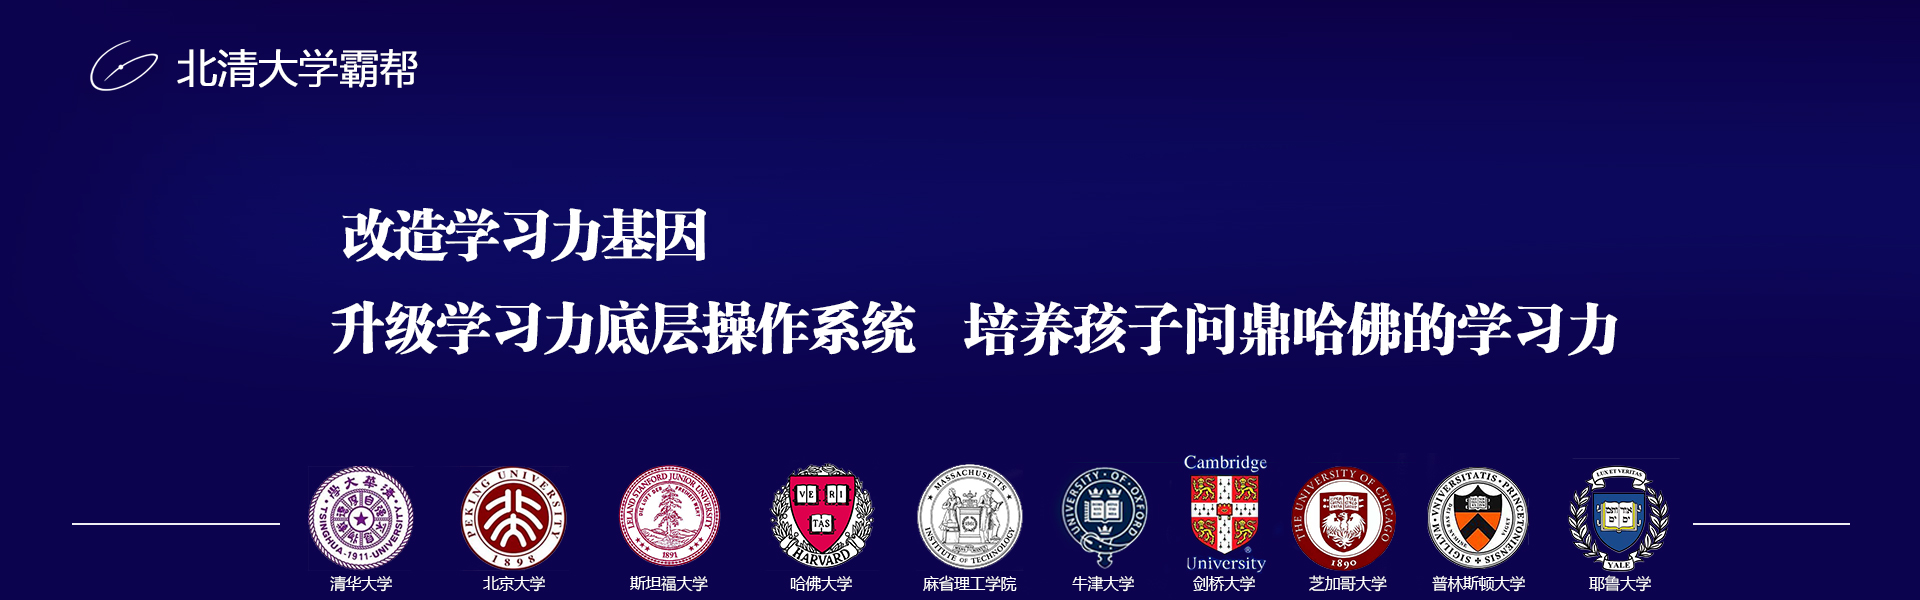
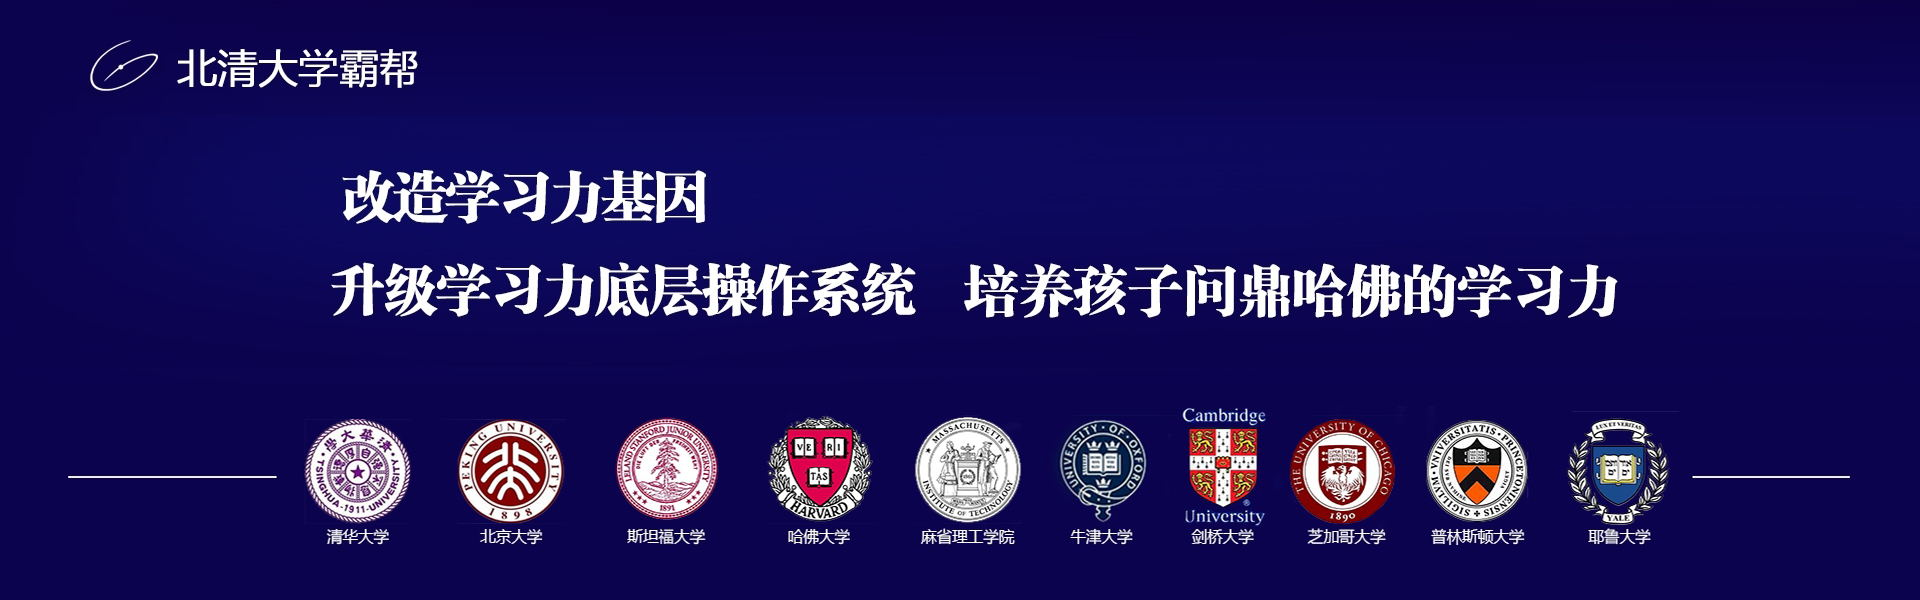
调整图片

diff --git a/index.html b/index.html
@@ -33,8 +33,8 @@
     <!--幻灯片-->
     <div class="banner">
         <div class="b-img">
-            <a href="excellence.html" style="background:url('upload/xuebabang.jpg') center no-repeat;background-size: 100% 600px;"></a>
-            <!-- <a href="aboutus.html" style="background:url(upload/banner1.jpg) center no-repeat;background-size: cover;"></a> -->
+            <a href="excellence.html" style="background:url('upload/xuebabang.jpg') center no-repeat;background-size: cover;"></a>
+           <!--  <a href="aboutus.html" style="background:url(upload/xueba.jpg) center no-repeat;background-size: cover;"></a> -->
         </div>
         <div class="b-list"></div>
         <a class="bar-left" href="#"><em></em></a><a class="bar-right" href="#"><em></em></a>
